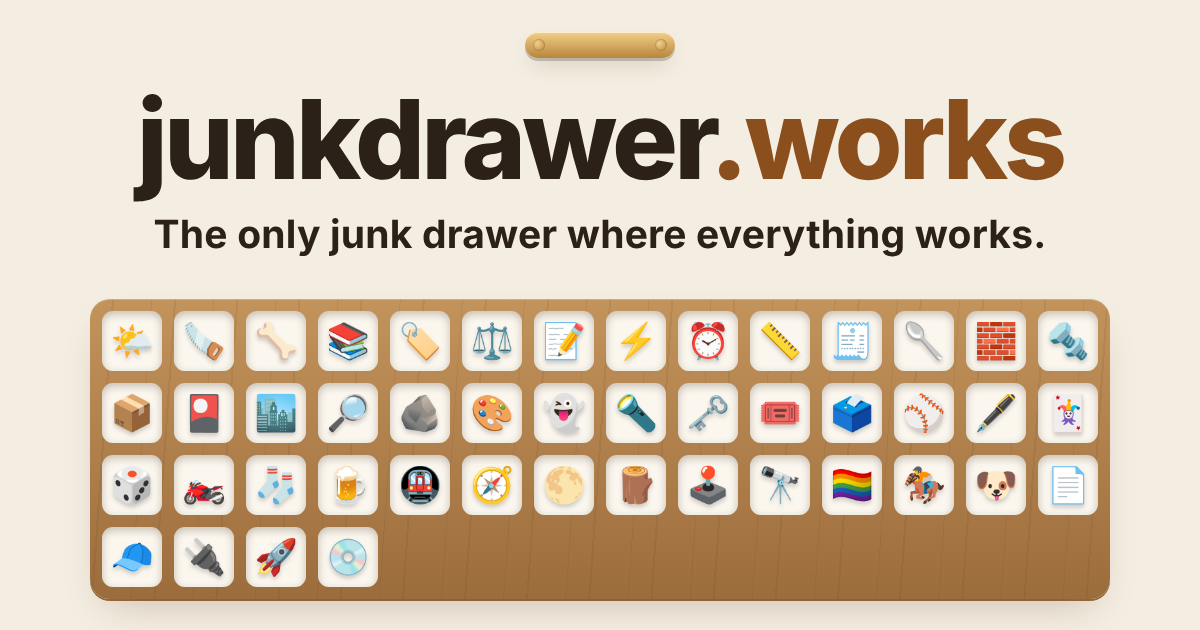
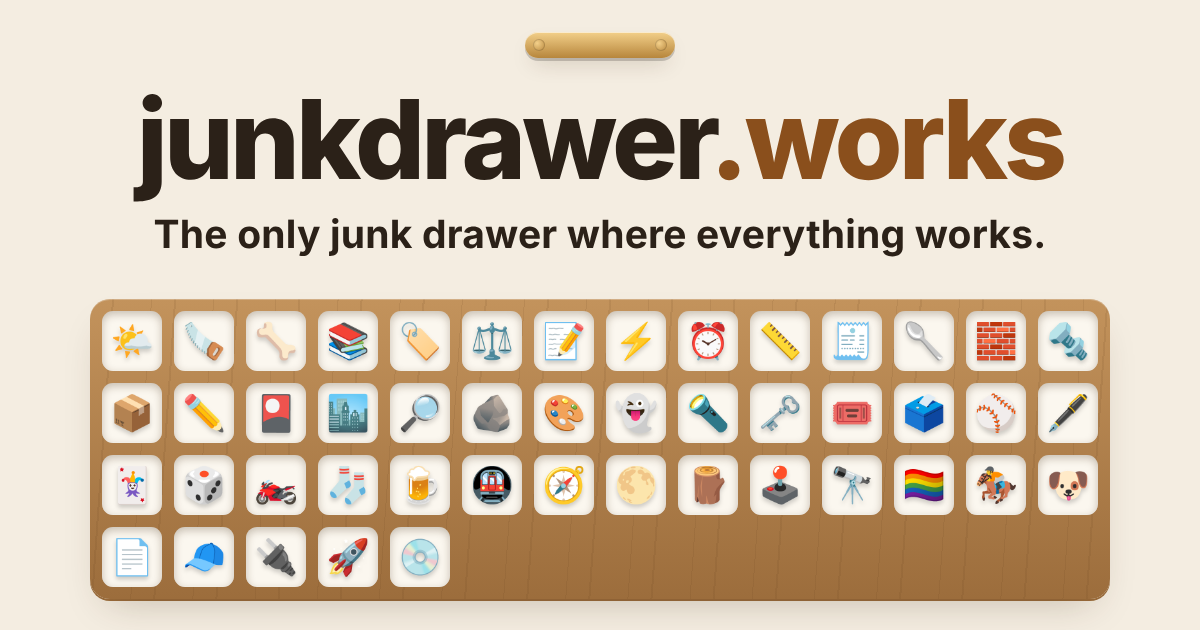
Drawer: Backwards K, a baseball scorecard, in the Tools tray
Also adds Backwards K to the privacy page's Google Drive list: one file per
game in a Backwards K folder, and it reads the account's name and email.

Claude-Session: https://claude.ai/code/session_013KmoE9Pyo3612hBe1AWnUh

diff --git a/privacy.html b/privacy.html
@@ -33,7 +33,7 @@
 <main>
   <a class="back" href="/">‹ junkdrawer.works</a>
   <h1>Privacy</h1>
-  <p class="date">Last updated October 20, 2026</p>
+  <p class="date">Last updated October 24, 2026</p>
   <p class="lede">Everything in the junk drawer runs in your browser. The projects here have no server of their own, no accounts, no analytics and no cookies. What you make stays in your browser, and a few projects can also keep a copy in your own Google Drive if you turn that on.</p>
 
   <h2>Where your things are kept</h2>
@@ -53,11 +53,12 @@
     <li><b>Brickyard</b> keeps a <code>Brickyard</code> folder with <code>Brickyard catalog.json</code>. It holds your sets (each one’s number, name, year, theme and piece count, where it is and which moving box it’s in, whether it’s built and has its instructions, missing pieces, size, tags, notes, anything to check and the date you added it), your bookcases (each one’s name, room and inside size, and for each shelf its height and the sets standing on it), your loose pieces (each lot’s name, moving box and note, and how many of each part and colour are in it), markers for sets, bookcases and lots you removed, and which of Claude’s batches you’ve already added. Models from Claude, which sets and lots count as your pieces, and settings stay on each device.</li>
     <li><b>Parts Bin</b> keeps a <code>Parts Bin</code> folder with <code>Parts Bin.json</code>. It holds your inventory: each bin and moving box, each part with its count, bag number, category, notes, details and links, your saved parts lists, and markers for things you removed. Batches waiting in the Inbox, the bin you last packed into, and an Anthropic API key if you add one stay on each device.</li>
     <li><b>From Scratch</b> keeps a <code>From Scratch</code> folder with <code>From Scratch recipes.json</code>. It holds your recipes: each one’s name, whose it is, what it serves or makes, its times, ingredients, steps, notes, tags, where it came from and any note to check it against the card, with markers for recipes you removed. Photos of recipe cards, settings and timers stay on each device.</li>
+    <li><b>Backwards K</b> keeps a <code>Backwards K</code> folder with one file per game, such as <code>2026-10-24 Foxes at Comets.json</code>. Each holds the game: the team names, lineups and pitchers, the date and place, the number of innings, every pitch and play you scored, and a line or two at the top saying who played and the score. A game you delete goes to Drive’s bin, marked with when you deleted it, so your other devices delete it too. Whether a device saves to Drive stays on each device.</li>
   </ul>
 
   <h2>What they do with your Google account</h2>
   <p>Connecting Google Drive asks Google for one permission, <code>drive.file</code>: “see, edit, create, and delete only the specific Google Drive files you use with this app”. The projects share one Google sign-in, called junkdrawer.works, so “this app” means these projects together. They can reach only the folders and files they made themselves, and they can’t see, open or list anything else in your Drive.</p>
-  <p>They use this access only to read their own file, merge it with the copy on your device, and write it back. Lotería, Every So Often and Parts Bin also read your Google account’s name and email address, and From Scratch, Brickyard and Shelfmark its email address, to show which account they save to and to skip Google’s account chooser the next time; that stays in your browser.</p>
+  <p>They use this access only to read their own files, merge them with the copy on your device, and write them back. Lotería, Every So Often, Parts Bin and Backwards K also read your Google account’s name and email address, and From Scratch, Brickyard and Shelfmark its email address, to show which account they save to and to skip Google’s account chooser the next time; that stays in your browser.</p>
   <p>The sign-in Google gives your browser lasts about an hour and is kept in your browser, so a reload doesn’t sign you out. Projects at the same address can use it during that hour without asking again; a project with its own address keeps its own. It is never sent anywhere except to Google.</p>
   <p>The use and transfer of information received from Google APIs by junkdrawer.works projects adheres to the <a href="https://developers.google.com/terms/api-services-user-data-policy">Google API Services User Data Policy</a>, including the Limited Use requirements. Your Drive data is used only to show you your own things. It isn’t transferred to anyone, used for advertising, or read by any person.</p>
 

diff --git a/index.html b/index.html
@@ -325,6 +325,13 @@
         <p>Number every box in a move and say what’s in it and where it’s going. Print labels any phone can read, tick the boxes onto the truck and off again, and find the kettle on the first night.</p>
         <span class="go" aria-hidden="true">Open →</span>
       </a>
+      <a class="slot" href="https://backwards-k.junkdrawer.works/">
+        <span class="obj" aria-hidden="true">✏</span>
+        <span class="label">New</span>
+        <h3>Backwards K</h3>
+        <p>Keep score at a ball game on your phone or tablet. Tap what happened and it moves the runners, counts the pitches and fills in a real scorecard as you go.</p>
+        <span class="go" aria-hidden="true">Open →</span>
+      </a>
       </div>
     </section>
 
